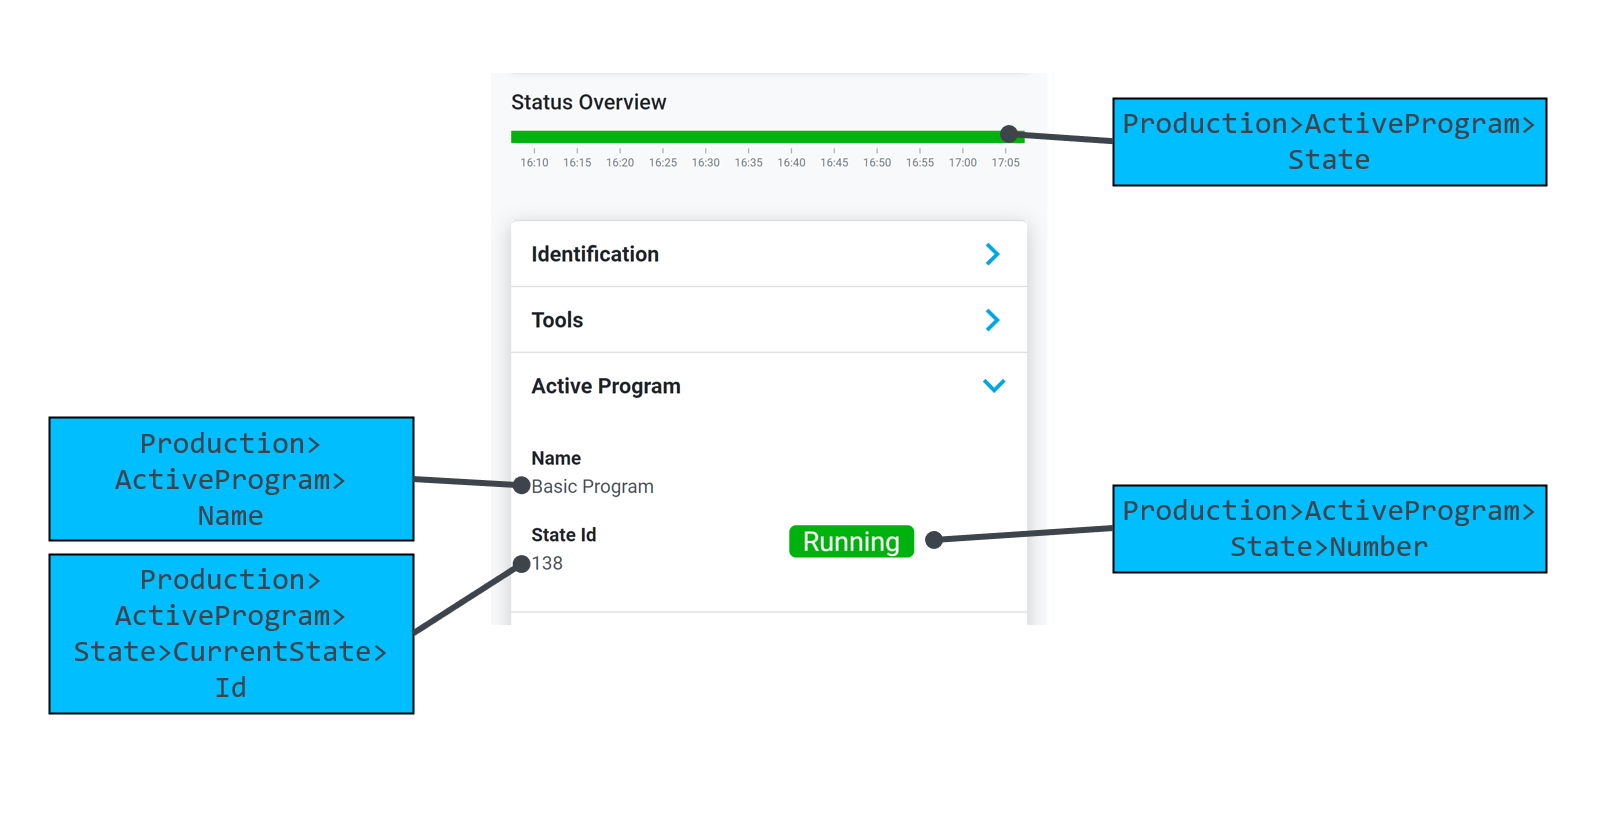
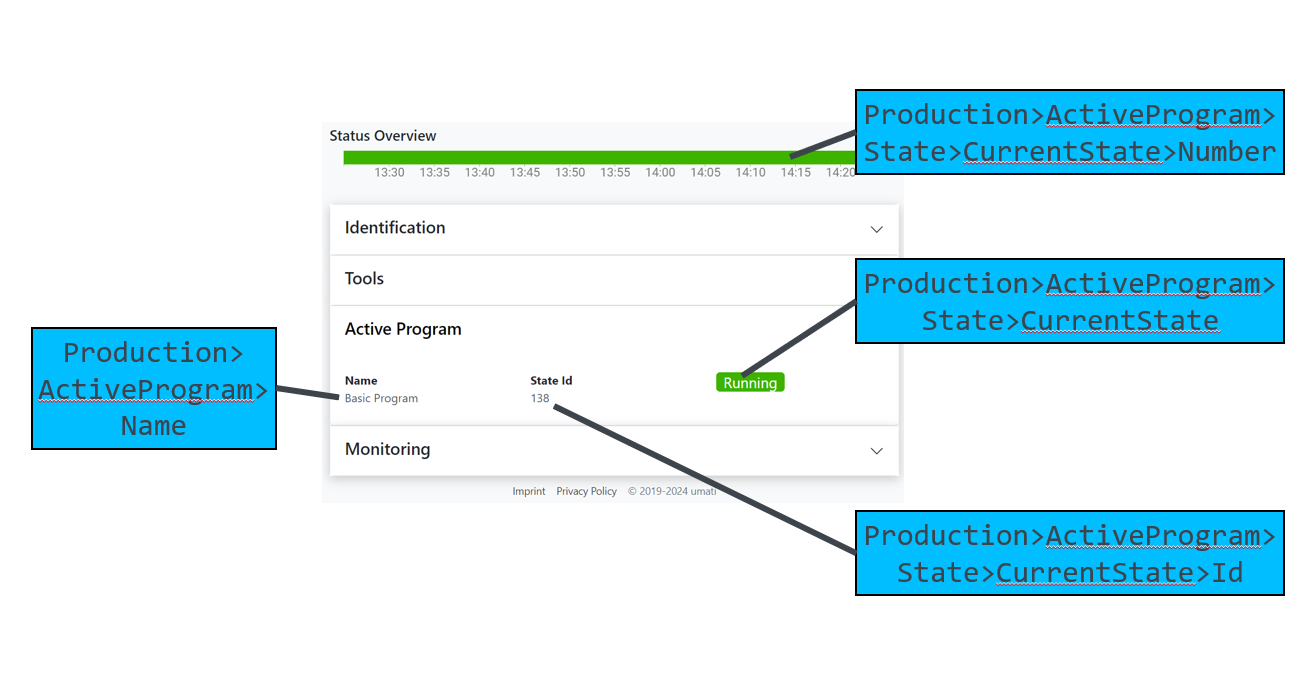
fix: detail machine state for timeline (#53)
* fix: detail machine state for timeline

* feat: update linter

* fix: clarifiy the statemachine usage

* refactor: linting of table

diff --git a/Specs/MachineTool.md b/Specs/MachineTool.md
@@ -25,15 +25,15 @@ To fill the demo dashboard machine page with the most content the variables mark
 
 | **Attribute** | **Value** |     |     |     |     |
 | --- | --- | --- | --- | --- | --- |
-| BrowseName | MachineIdentificationType |
-| IsAbstract | False |
-| Description | Contains information about the identification and nameplate of a machine |
+| BrowseName | MachineIdentificationType | | | | |
+| IsAbstract | False | | | | |
+| Description | Contains information about the identification and nameplate of a machine | | | | |
 |     |     |     |     |     |     |
 | **References** | **NodeClass** | **BrowseName** | **DataType** | **TypeDefinition** | **Other** |
-| Subtype of the 2:FunctionalGroupType defined in OPC 10000-100, i.e. inheriting the InstanceDeclarations of that Node. |
+| Subtype of the 2:FunctionalGroupType defined in OPC 10000-100, i.e. inheriting the InstanceDeclarations of that Node. | | | | | |
 | 0:HasProperty | Variable | 0:DefaultInstanceBrowseName | 0:QualifiedName | 0:PropertyType |     |
-| 0:HasInterface | ObjectType | IMachineVendorNameplateType |
-| 0:HasInterface | ObjectType | IMachineTagNameplateType |
+| 0:HasInterface | ObjectType | IMachineVendorNameplateType | | | |
+| 0:HasInterface | ObjectType | IMachineTagNameplateType | | | |
 | Applied from IMachineVendorNameplateType |     |     |     |     |     |
 | 0:HasProperty | Variable | 2:ProductInstanceUri | 0:String | 0:PropertyType | M, RO |
 | 0:HasProperty | Variable | 2:Manufacturer | 0:LocalizedText | 0:PropertyType | M, RO |
@@ -63,7 +63,7 @@ The instance _Location_ property is evaluated according to the special requireme
 
   `http://www.<MANUFACTURERDOMAIN>/example`
 
-- The rules for creating a URI can be found online. Please follow [this link](https://en.wikipedia.org/wiki/Uniform_Resource_Identifier). In the case of a website as a URI, it is not necessary that the website actually exists, it only identifies the machine uniquely. In order to simplify debugging it is recommended to choose a URI which allows an identification of the machine also for third persons, e.g. by including the company name.
+- The rules for creating a URI can be found online. Please follow [this link](https://en.wikipedia.org/wiki/Uniform_Resource_Identifier). In the case of a URL as a URI, it is not necessary that the site actually exists, it only identifies the machine uniquely. In order to simplify debugging it is recommended to choose a URI which allows an identification of the machine also for third persons, e.g. by including the company name.
 
 - The machine will get a unique NamespaceURI after being integrated to the datahub by addition of a suffix to ensure unique namespaces.
 
@@ -75,18 +75,18 @@ The instance _Location_ property is evaluated according to the special requireme
 
 ### Active Program Statusbar
 
-For the status overview in the dashboard, the _State_ of the _ProductionActiveProgramType_ is stored and plotted over time. The status bar **does NOT relate to the stacklight** status!
+For the status overview in the dashboard, the _StateNumber_ of the _ProductionActiveProgramType.State.CurrentState.Number_ is stored and plotted over time. The status bar **does NOT relate to the stacklight** status!
 
 Each status is assigned to a color, the color scheme is here (subject to change):
 
-| State | Color |
-| --- | --- |
-| Initializing | &#9898; Gray |
-| Running | &#128994; Green |
-| Ended | &#128309; Cyan |
-| Interrupted | &#128992; Orange |
-| Aborted | &#128308; Red |
-| Any other (unspecified) state | &#9899; Black |
+| State |Number | Color |
+| --- | --- | --- |
+| Initializing |0| &#9898; Grey |
+| Running |1| &#128994; Green |
+| Ended |2| &#128309; Cyan |
+| Interrupted |3| &#128992; Orange |
+| Aborted |4| &#128308; Red |
+| Any other (unspecified) state | | &#9899; Black |
 
 A gap is left for periods of time in which no data was recorded (e.g. machine offline). An exemplary timeline is shown above.
 
